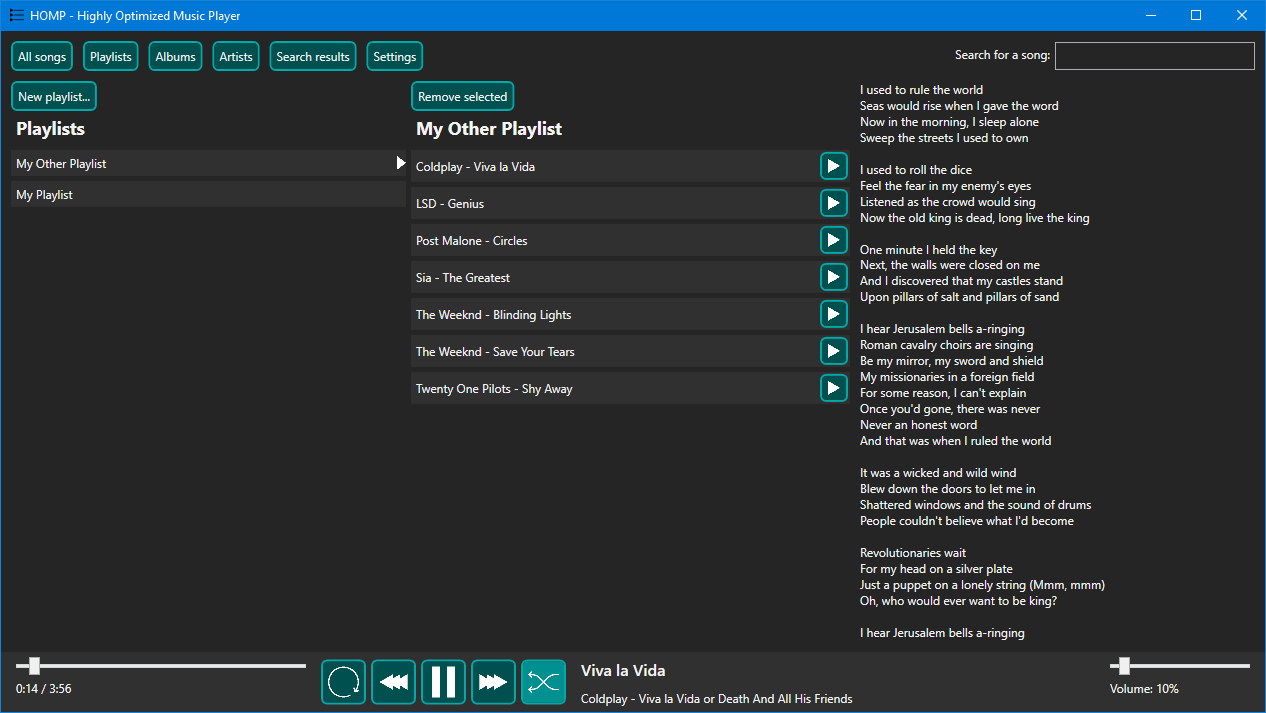
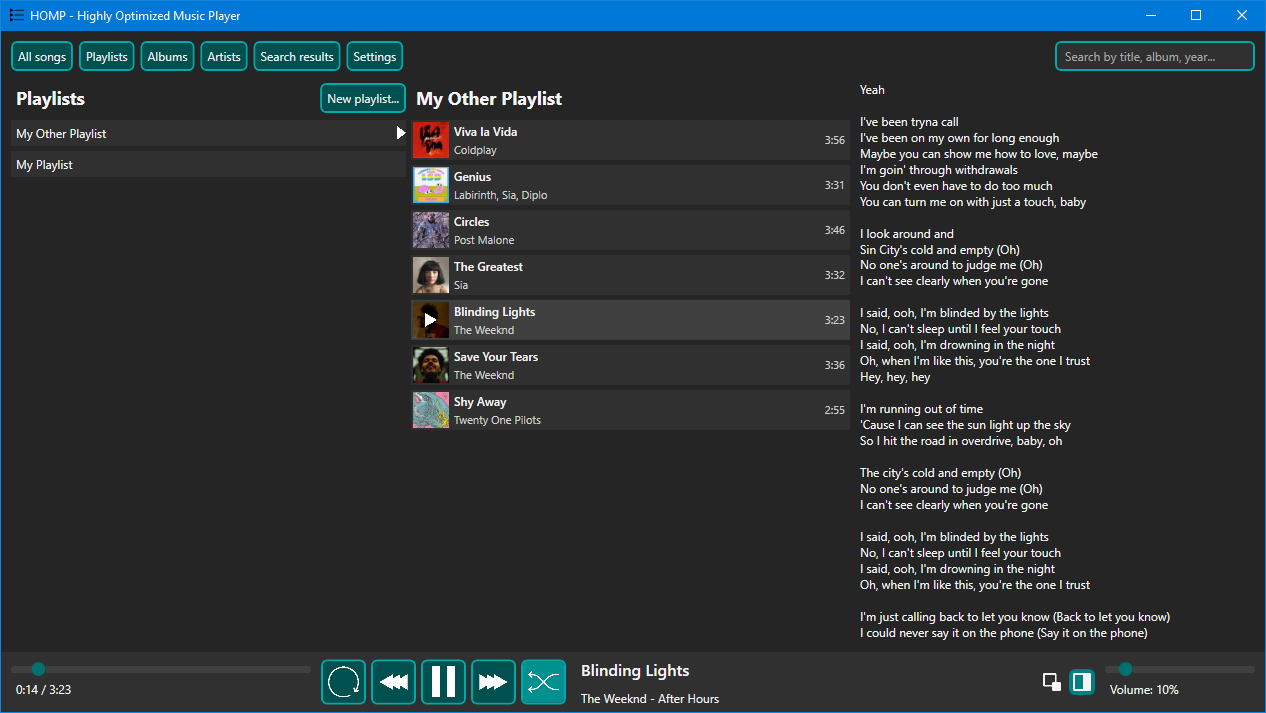
Updated README

diff --git a/README.md b/README.md
@@ -3,16 +3,17 @@
 ![A screenshot of HOMP's playlists page](Assets/Screenshots/homp_playlists.png)  
 
 HOMP is a simple lightweight music player.  
-Some of its features include:  
-- Support for global shortcuts without media keys  
-- Lyrics support and built-in lyrics editor  
-- Easy to use user interface  
+Some of its features include:
+- Support for global shortcuts without media keys
+- Lyrics support and built-in lyrics editor
+- Easy to use user interface
 - Automatic album and artist organization
-- Ultra fast search for each supported song attribute  
+- Ultra fast search for each supported song attribute
+- Miniplayer window with playback controls  
 
 ## Global shortcuts  
 
-HOMP was originally created with the goal of creating a music player completely controllable by non-media keys shortcuts that was lightweight enough to be used when doing other heavy tasks.  
+HOMP was originally created with the goal of creating a music player completely controllable by non-media keys shortcuts that was lightweight enough to be used while doing other heavy tasks.  
 The supported shortcuts are:  
 - `CTRL-ALT-SHIFT-P`: Play/Pause  
 - `CTRL-ALT-SHIFT-N`: Next song in collection  
@@ -22,11 +23,11 @@ The supported shortcuts are:
 - `CTRL-ALT-SHIFT-UP`: Volume up by 2% (the amount will be customizable)  
 - `CTRL-ALT-SHIFT-DOWN`: Volume down by 2% (the amount will be customizable)  
 
-These shortcuts work even with HOMP running in the background.  
+These shortcuts work even with HOMP running in the background. All shortcut keys are customizable (only the actual activator key, modifiers are fixed to `CTRL-ALT-SHIFT`).  
 
 ## Running HOMP  
 
-HOMP uses WPF and .NET 7.0.  
+HOMP uses WPF and .NET 8.0.  
 This makes HOMP a Windows only program and there are no plans to port it to other platforms.  
 
 The project is divided into 2 sub-projects:  
